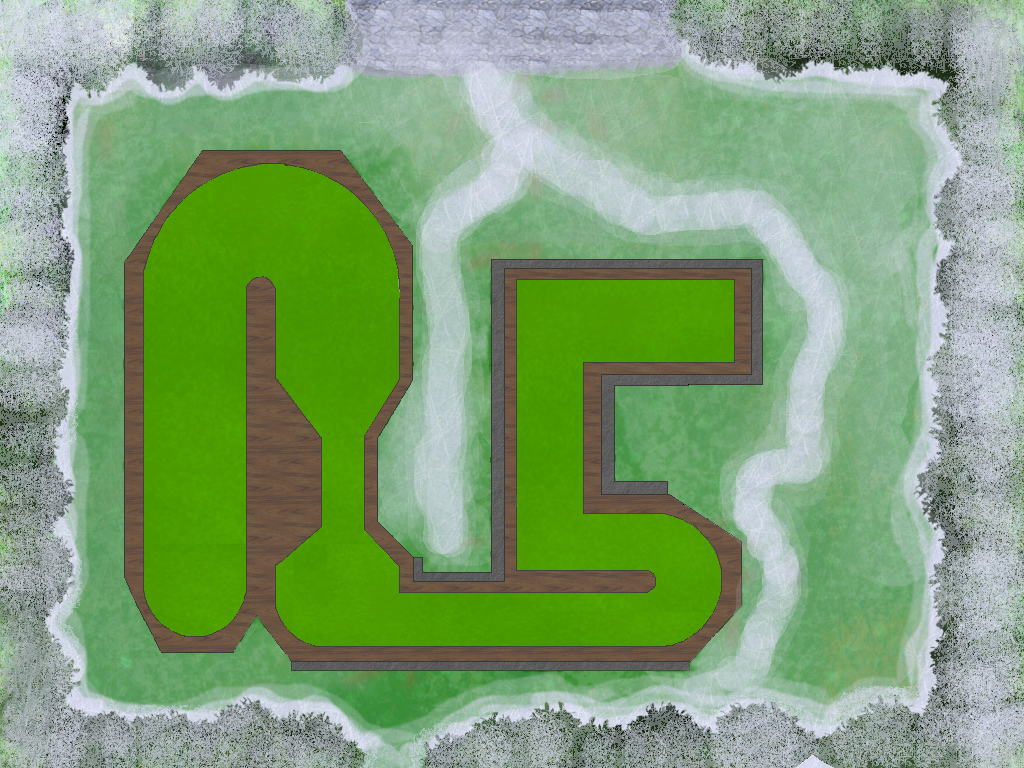
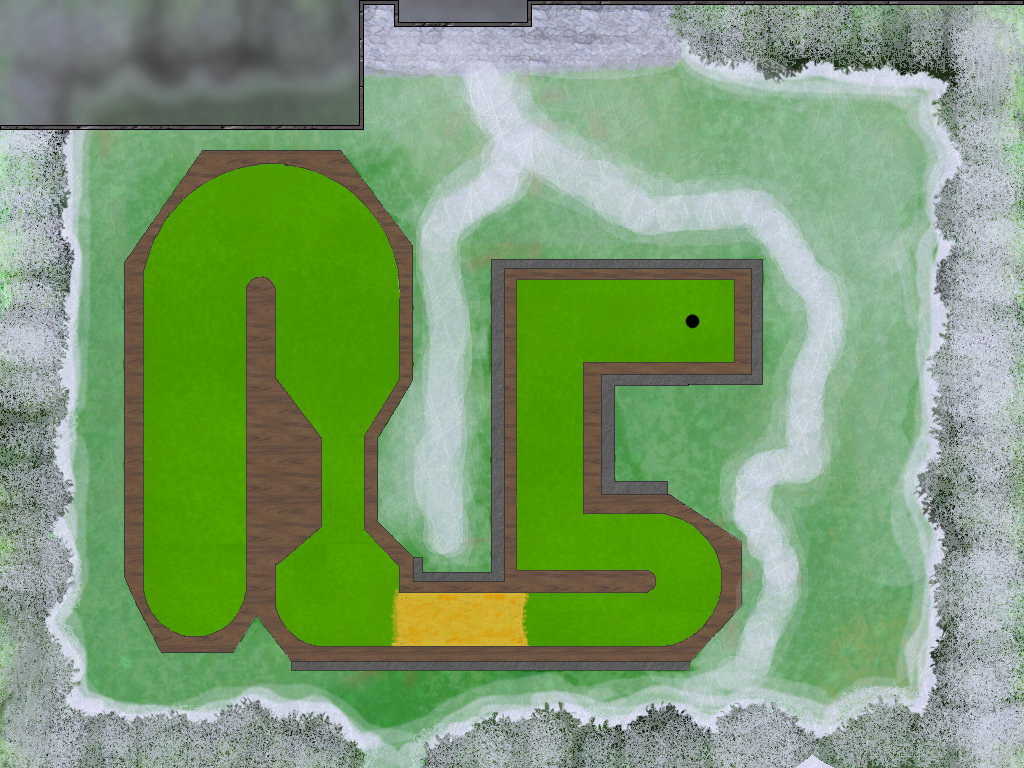
Updates Graphics + Level 2 sand + groundMaterials  etc ...

Changed region(s): [[0.0, 0.0, 1.0, 0.1875], [0.375, 0.75, 0.5312, 0.8438], [0.6562, 0.4062, 0.6875, 0.4375]]

diff --git a/MinigolfSimulator3000/level_2.cpp b/MinigolfSimulator3000/level_2.cpp
@@ -7,6 +7,7 @@ Level_2::Level_2(QWidget *parent)
 {
 
     this->setStartCoordinates(195.0, 590.0);
+    this->setHoleCoordinates(689,318);
     this->constructLevel();
     this->createBall();
 
@@ -33,19 +34,6 @@ void Level_2::constructLevel()
     // Hintergrundbild
     scene->setBackgroundBrush(QImage(bgroundimage));
 
-
-    // Wasserbilder
-
-    QPolygon water_polygon;
-    water_polygon << QPoint(140,250) << QPoint(140,152) << QPoint(293,152) << QPoint(294,252);
-    water = new GroundMaterial(GroundMaterial::water_material,water_polygon);
-    water->setBrush(QImage(waterimage));
-    //scene->addItem(water);
-    water->setVisible(true);
-    water->setPen(Qt::NoPen);
-
-
-
     // QPen setzen
     QPen linepen;
     linepen.setWidth(2);
@@ -54,14 +42,25 @@ void Level_2::constructLevel()
     linepen.setCapStyle(Qt::RoundCap);
 
 
-    //grass material
-    QPolygonF grassPolygon;
-    grassPolygon << QPointF(140,638) << QPointF(134,154) << QPointF(400,154) << QPointF(410,576) << QPointF(504,577) << QPointF(505,269)
-                 << QPointF(747,269) << QPointF(752,377) << QPointF(595,375) << QPointF(601,506) << QPointF(729,495) << QPointF(718,658);
-    GroundMaterial* grass = new GroundMaterial(GroundMaterial::grass_material, grassPolygon);
-    grass->setPen(linepen);
-    scene->addItem(grass);
+    //grass material   [zum debuggen QPen(Qt::red) anstatt linepen verwenden]
+    QPolygonF grassPolygon1;
+    QPolygonF grassPolygon2;
+    grassPolygon1 << QPointF(140,638) << QPointF(134,154) << QPointF(400,154) << QPointF(410,576) << QPointF(398,590) << QPointF(390,649);
+    grassPolygon2 << QPointF(529,648)  << QPointF(526,591)  << QPointF(504,577)  << QPointF(505,269)  << QPointF(747,269) << QPointF(752,377)
+                  << QPointF(595,375) << QPointF(601,506) << QPointF(729,495) << QPointF(718,658);
+    GroundMaterial* grass1 = new GroundMaterial(GroundMaterial::grass_material, grassPolygon1);
+    GroundMaterial* grass2 = new GroundMaterial(GroundMaterial::grass_material, grassPolygon2);
+    grass1->setPen(linepen);
+    scene->addItem(grass1);
 
+    grass2->setPen(linepen);
+    scene->addItem(grass2);
+
+    QPolygonF sandPolygon;
+    sandPolygon << QPointF(403,648) << QPointF(520,648) << QPointF(519,592) << QPointF(404,590);
+    GroundMaterial* sand = new GroundMaterial(GroundMaterial::sand_material, sandPolygon);
+    sand->setPen(linepen);
+    scene->addItem(sand);
 
     continueItem->setRect(368,266,289,80);
     continueItem->setPen(linepen);
@@ -72,6 +71,12 @@ void Level_2::constructLevel()
     leaveItem->setPen(linepen);
     leaveItem->setVisible(false);
     scene->addItem(leaveItem);
+
+    QPolygonF holePoly;
+    holePoly << QPoint(689, 318) << QPoint(689, 343) << QPoint(694, 348) << QPoint(689, 343);
+    GroundMaterial* hole = new GroundMaterial(GroundMaterial::hole_material, holePoly);
+    hole->setPen(linepen);
+    scene->addItem(hole);
 
     //Begrenzungslinien zur Liste hinzufügen
     lineVec.push_back( new BorderLine(143,590,143,269,BorderLine::metal_material));
@@ -191,29 +196,6 @@ void Level_2::updateLevel()
     x = vogel2->x();
     y = vogel2->y();
 
-    if (wassercounter < 6)
-    {
-        water->setBrush(QImage(":/Images/Images/wasser1.png"));
-
-    }
-
-    if (wassercounter > 6 && wassercounter <= 12)
-    {
-        water->setBrush(QImage(":/Images/Images/wasser2.png"));
-
-    }
-
-    if (wassercounter > 12 && wassercounter <= 16)
-    {
-        water->setBrush(QImage(":/Images/Images/wasser3.png"));
-
-    }
-
-    if (wassercounter > 16 && wassercounter <= 20)
-    {
-        water->setBrush(QImage(":/Images/Images/wasser4.png"));
-
-    }
 
     if (rand < 0.001)
     {

diff --git a/MinigolfSimulator3000/level_1.cpp b/MinigolfSimulator3000/level_1.cpp
@@ -45,7 +45,6 @@ void Level_1::constructLevel()
     water->setVisible(true);
     water->setPen(Qt::NoPen);
 
-
     // QPen setzen
     QPen linepen;
     linepen.setWidth(2);
@@ -59,13 +58,13 @@ void Level_1::constructLevel()
     grassPolygon << QPoint(126,664) << QPoint(310,665) <<QPoint(302,382) <<QPoint(343,345) <<QPoint(740,343) <<QPoint(739,245)
     <<QPoint(300,245) << QPoint(300, 265) <<QPoint(132,265);
     GroundMaterial* grass = new GroundMaterial(GroundMaterial::grass_material, grassPolygon);
-    grass->setPen(QPen(Qt::red));
+    grass->setPen(linepen);
     scene->addItem(grass);
 
     QPolygonF holePoly;
     holePoly << QPoint(691, 294) << QPoint(696, 294) << QPoint(696, 299) << QPoint(691, 299);
     GroundMaterial* hole = new GroundMaterial(GroundMaterial::hole_material, holePoly);
-    hole->setPen(QPen(Qt::red));
+    hole->setPen(linepen);
     scene->addItem(hole);
 
     continueItem->setRect(368,266,289,80);
@@ -77,9 +76,6 @@ void Level_1::constructLevel()
     leaveItem->setPen(linepen);
     leaveItem->setVisible(false);
     scene->addItem(leaveItem);
-
-    //item->setVisible(true);
-  //  scene->addItem(item);
 
     //Begrenzungslinien zur Liste hinzufügen
     lineVec.push_back( new BorderLine(294.0,594.0,294.0,375.0,BorderLine::metal_material));

diff --git a/MinigolfSimulator3000/groundmaterial.h b/MinigolfSimulator3000/groundmaterial.h
@@ -46,7 +46,7 @@ public:
             break;
 
             case sand_material:
-                frictionCoefficient = 0.05;
+                frictionCoefficient = 0.08;
                 minSpeed = 0.1;
             break;
 
